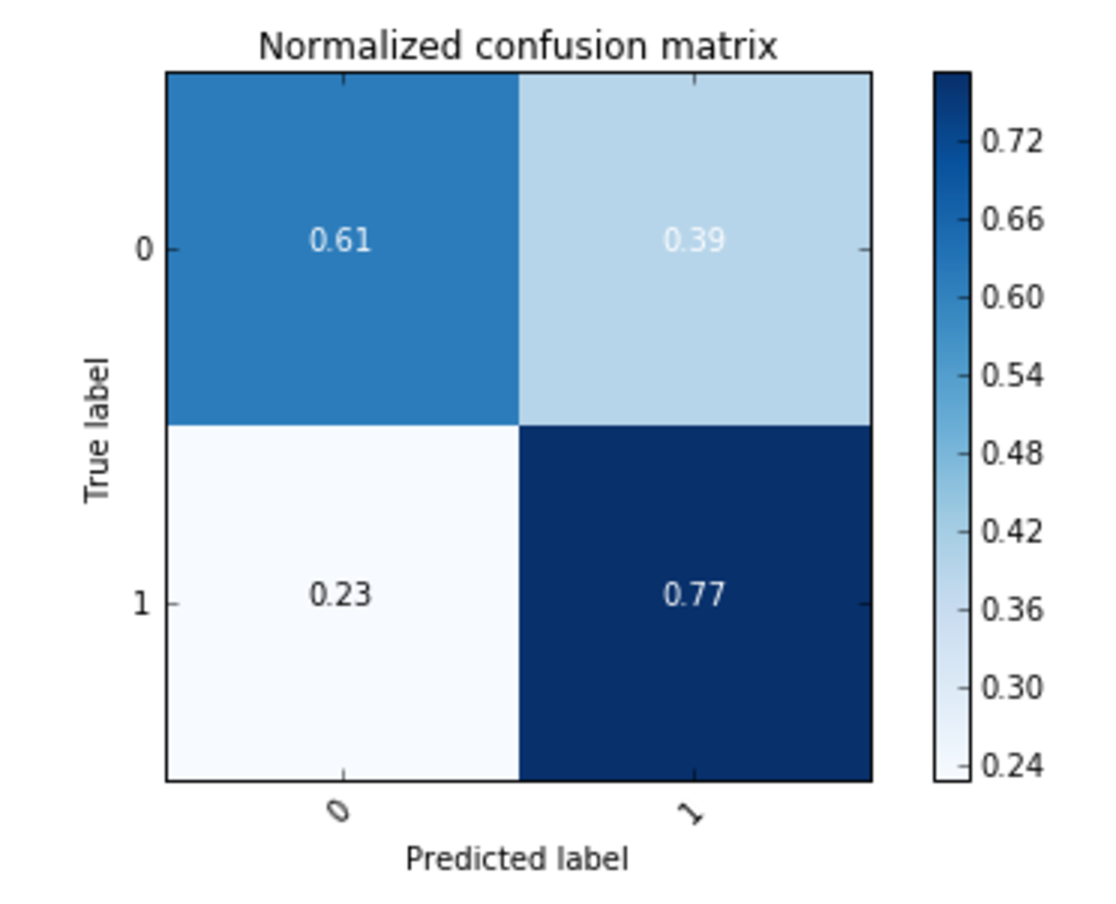
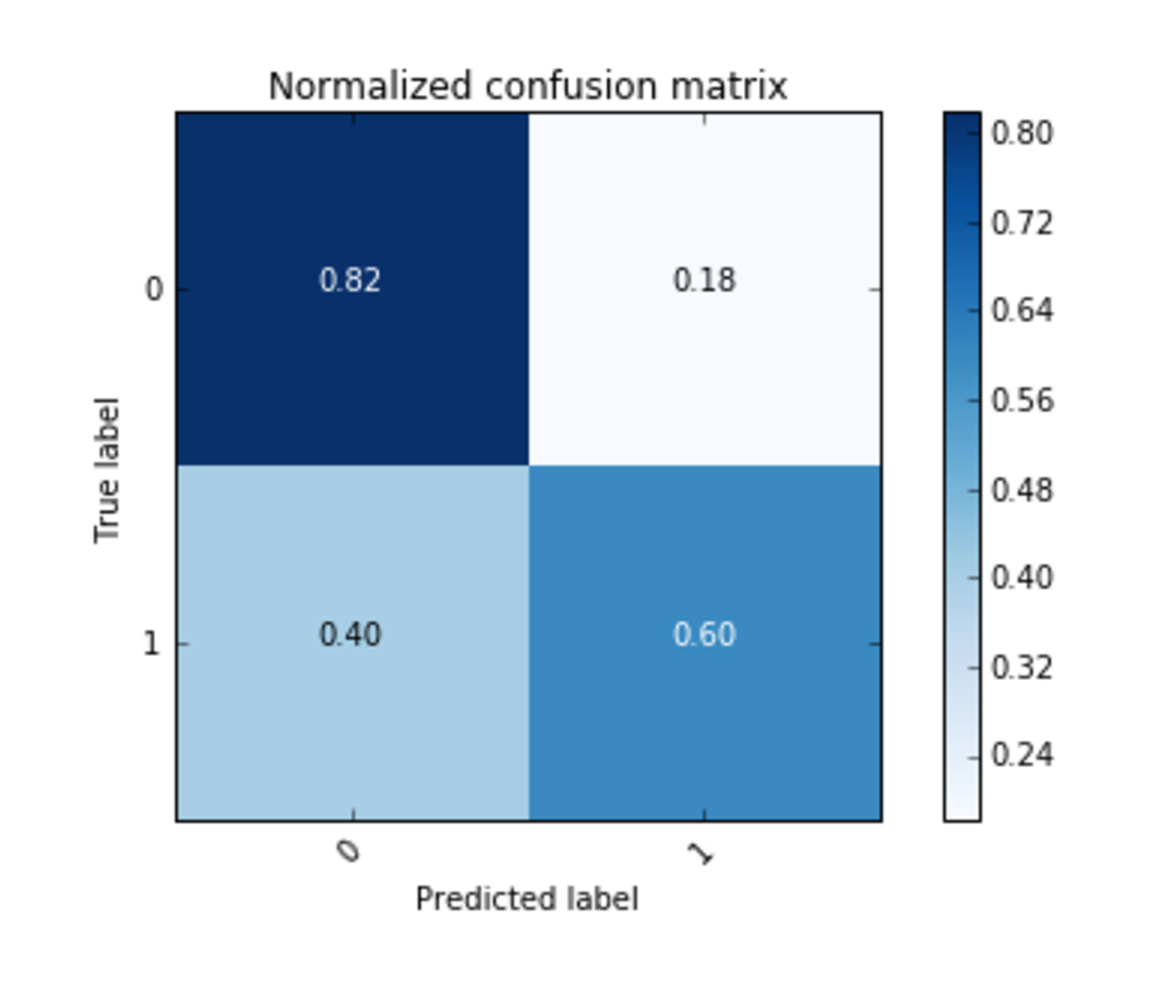
edited

diff --git a/output/deep-learning-for-sport-wagering-part-2-of-3.html b/output/deep-learning-for-sport-wagering-part-2-of-3.html
@@ -77,10 +77,9 @@ Filed under <a href="http://mattobrien.me/category/deep-learning.html">deep lear
 	<h4>Part 2: Modeling</h4>
 <p>I was fortunate enough to have attended Jeremy Howard's awesome <a href="https://www.usfca.edu/data-institute/certificates/deep-learning-part-one">deep learning certification program</a> at University of San Francisco. One of the many insightful things Jeremy said was, and I paraphrase, <a href="https://youtu.be/1-NYPQw5THU?t=1h19m11s">"In real life, I always start with a variable importance plot"</a></p>
 <p>Being just smart enough to recognize when smarter people have smart ideas, this is exactly what I did.</p>
-<p>I built a straightforward Random Forest in scikit-learn (using CV to select hyperparameters) and retrieved this plot:</p>
+<p>I built a straightforward Random Forest in scikit-learn (using CV to select hyperparameters and using general best procedures) and retrieved this plot:</p>
 <p><img alt="VIP" src="https://github.com/mobbSF/blog/blob/master/images/VIP.png?raw=true"></p>
-<p>The plot doesn't have a strong inflection point. </p>
-<p>First let's look at what isn't important:  </p>
+<p>The plot doesn't have a strong inflection point, making it difficult to decide where to draw a line in the sand about what is important to include. Let's see if we can deduce where this cutoff might fall, by first let's look at what isn't important:  </p>
 <ul>
 <li>We see that the number of Draw outcomes isn't important, which makes sense, as these are rare outcomes and are fairly irrelevant. The number of draws a boxer has doesn't have much bearing on the rest of their records.  </li>
 <li>We see that the permutations of stances across opponents (complimentary or opposite, <a href="https://en.wikipedia.org/wiki/Southpaw_stance">southpaw</a> or <a href="https://en.wikipedia.org/wiki/Orthodox_stance">orthodox</a>) isn't relevant.  </li>
@@ -93,8 +92,8 @@ Filed under <a href="http://mattobrien.me/category/deep-learning.html">deep lear
 <p>Getting back to the variable importance plot, the two Quality of Opposition (<code>QOO</code>) metrics are shown to be important, which is nice because they took a lot of effort to construct.</p>
 <p>The <code>last6_L</code> and <code>last6_W</code> variables have a large amounts of variance as evidenced by the bars. This most likely ties into the discussion about how records, as they stand alone, don't adequately reflect the quality of the opposition. For some boxers, the last 6 are very important; for some, they aren't. This makes sense.</p>
 <p>Content with the plot and with these features in mind, I experimented with various subsets of features and various configurations when fitting multilayer perceptrons in Keras.</p>
-<p>Because of the small file size of the flat dataset (only 1.85 GB), there were no heavy demands on IO or memory. Thus I could rip through each epoch on a basic AWS cloud GPU painlessly, and iterate on models easily. </p>
-<p>Regarding the actual deep architecture of the MLP, I didn't have major overfitting issues, thus didn't get any advantage with a copious amount of dropout. Batch Normalization didn't give me any advantage, so I discarded it. Fundamentally, it's a remarkably simple dataset and most models I built performed similarly. Epochs around 10 performed just fine.</p>
+<p>On a positive note, because of the small file size of the flat dataset (only 1.85 GB), there were no heavy demands on IO or memory. Thus I could rip through each epoch on a basic AWS cloud GPU painlessly, and iterate on models easily. </p>
+<p>Regarding the actual deep architecture of the MLP, I didn't have major overfitting issues, thus didn't get any advantage with a copious amount of dropout. Batch Normalization didn't give me any advantage, so I discarded it. Fundamentally, it's a remarkably simple dataset and most models I built performed very similarly. Epochs around 10 performed just fine.</p>
 <p>A decent final configuration looked like this: </p>
 <div class="highlight"><pre>mlp_004 = Sequential()
 mlp_004.add(Dense(64, activation=&#39;relu&#39;, input_dim=13))  #0.69 after 20 epochs w/out BatchNormalization#
@@ -110,11 +109,13 @@ mlp_004.fit(X_train, y_train, batch_size=64, validation_split=0.2, nb_epoch=10)
 </pre></div>
 
 
-<p>The accuracy returned was 73%. </p>
-<p>OK, so how should I feel about such a modest accuracy, in this age of computer vision, self-driving cars, and <a href="https://www.cnbc.com/2017/08/11/elon-musk-issues-a-stark-warning-about-a-i-calls-it-a-bigger-threat-than-north-korea.html">Elon Musk's dire warnings</a> of <a href="https://www.youtube.com/watch?v=-WIwQlMesr0">Arnold coming baaack</a>?</p>
-<p>I must admit, I feel pretty good about it. It's useful to take a step back here and reiterate that the purpose of this project is to make money gambling on boxing. If we were to use this algorithm to indicate when to place a bet, then we would prefer a larger precision at the expense of recall. What this means it that it's better to avoid betting and miss out on opportunities to win (lower recall), as long as we are more confident that when we <em>DO</em> bet, we will win. More in the third post on these approaches.</p>
-<p>Time to move past the accuracy. As briefly noted above, the dataset wasn't appreciably unbalanced. Here's the confusion matrix:</p>
+<p>The validation set accuracy returned was 73%. </p>
+<p>Here's the confusion matrix:</p>
 <p><img alt="CM" src="https://github.com/mobbSF/blog/blob/master/images/CM.png?raw=true"></p>
+<p>Here's the ROC curve:  </p>
+<p><img alt="ROC" src="https://github.com/mobbSF/blog/blob/master/images/CM.png?raw=true"></p>
+<p>OK, so how should I feel about such relatively modest scores, in this age of a solved MNIST, self-driving cars, and <a href="https://www.cnbc.com/2017/08/11/elon-musk-issues-a-stark-warning-about-a-i-calls-it-a-bigger-threat-than-north-korea.html">Elon Musk's dire warnings</a> of <a href="https://www.youtube.com/watch?v=-WIwQlMesr0">Arnold coming baaack</a>?</p>
+<p>I must admit, I feel pretty good about it. It's useful to take a step back here and reiterate that the purpose of this project is to make money gambling on boxing. If we were to use this algorithm to indicate when to place a bet, then we would prefer a larger precision at the expense of recall. What this means it that it's better to avoid betting and miss out on opportunities to win (lower recall), as long as we are more confident that when we <em>DO</em> bet, we will win. More in the third post on these approaches.</p>
 <p>Meanwhile, allow me to wander a bit (yet again!) and discuss one of the many experiments I ran that didn't pay off. I went ahead and went for a moonshot. The reality is that as far as wagering on boxing go, it's one thing to wager on a W or L outcome. But if you can win a bet by predicting a more granular types of outcomes, the payouts are several orders of magnitude better. The actual type of outcome -- either a judges decision, or an actual knockout, or a technical knockout -- that's where the big bucks are. And when it comes to knockouts, if it's possible to predict the actual round? The payouts are huge. </p>
 <p>I changed the labels to represent the granular outcomes mentioned above, and I rebuilt the model and crossed my fingers. Unfortunately, and not too surprisingly, accuracy dropped to around 30%. Hummm...well...worth a shot. And definitely worth revisiting again later.</p>
 <p>Next up...prediction time!</p>
